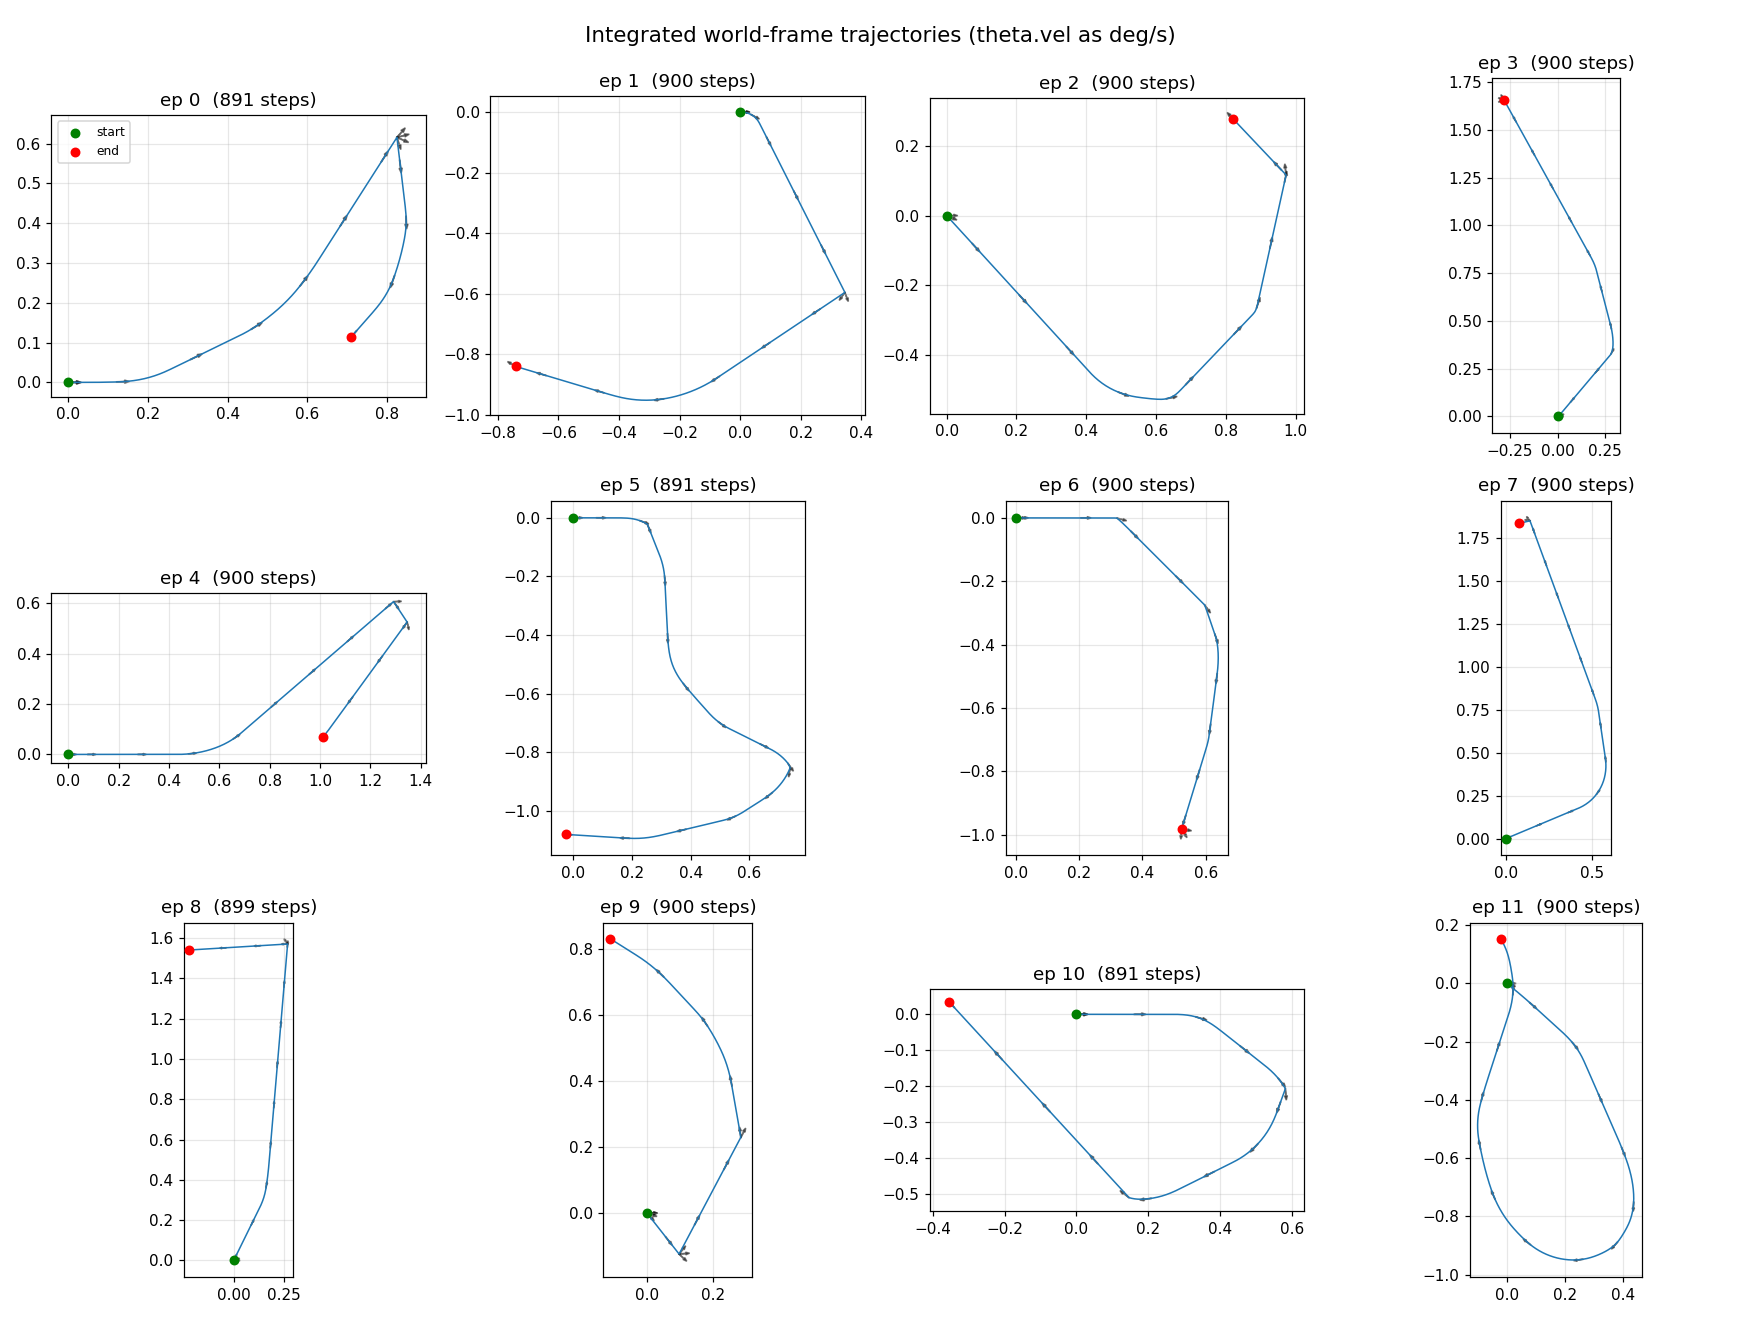
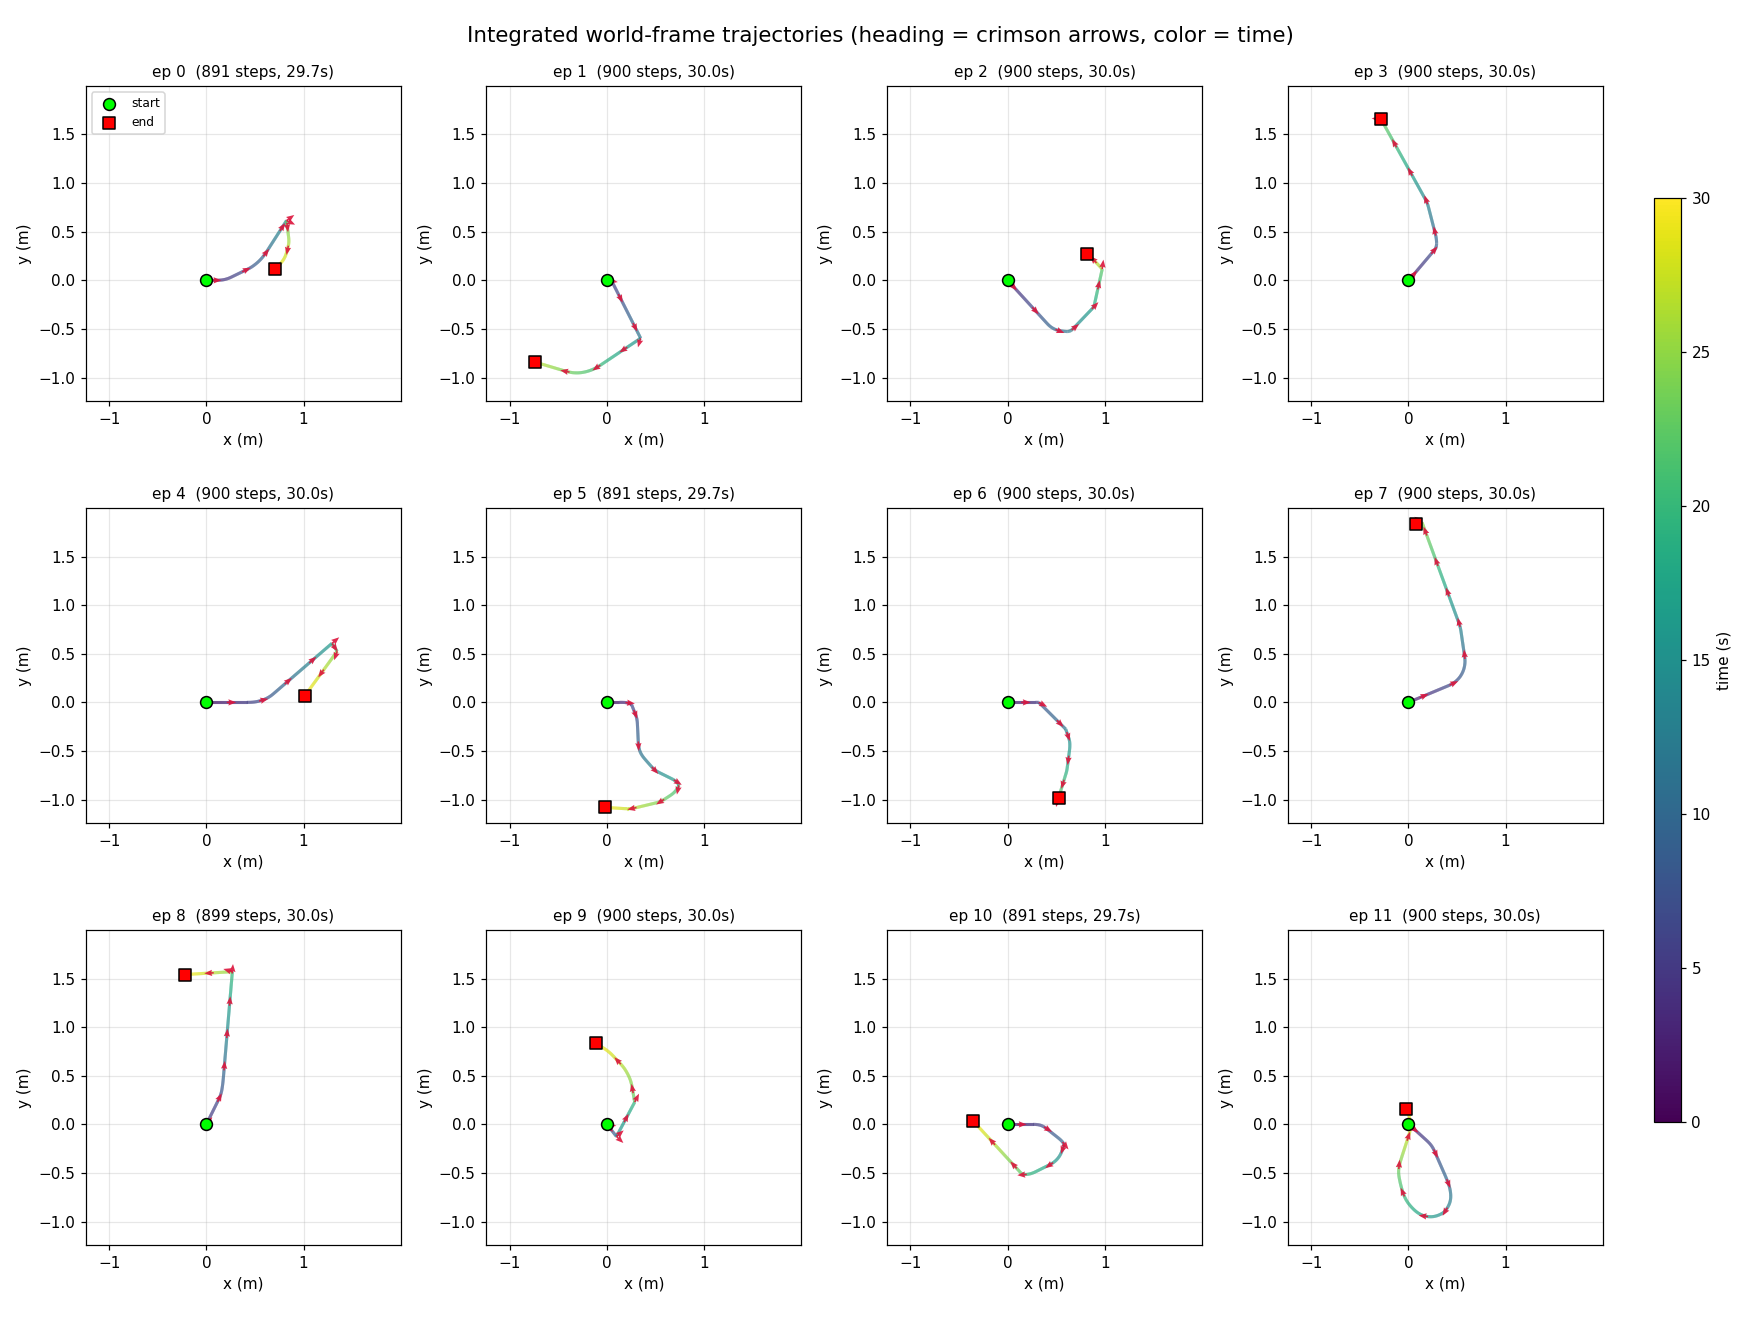
chore(viz): integration-trajectory viz enhancements + regenerated world_trajectories
Heading arrows, shared comparable coordinate frame, viridis time-coloring (pre-existing
local work, committed for a clean tree before pod handoff).

diff --git a/scripts/visualize_integration.py b/scripts/visualize_integration.py
@@ -40,30 +40,65 @@ def load_episodes(parquet: str):
     return eps
 
 
-def fig_world_trajectories(eps, out: Path, n=12):
+def fig_world_trajectories(eps, out: Path, n=12, n_arrows=8):
+    from matplotlib.collections import LineCollection
+
     ids = list(eps)[:n]
+    # Integrate once; gather a shared coordinate frame so every subplot is directly comparable.
+    trajs, tmax = {}, 0.0
+    gmin, gmax = np.inf, -np.inf
+    for ep in ids:
+        vx, omega = eps[ep]
+        p = integrate_trajectory(vx, omega, DT, theta_in_degrees=True)
+        trajs[ep] = p
+        gmin = min(gmin, p[:, :2].min())
+        gmax = max(gmax, p[:, :2].max())
+        tmax = max(tmax, (len(vx)) * DT)
+    pad = 0.05 * (gmax - gmin)
+    lo, hi = gmin - pad, gmax + pad          # identical square limits for all subplots
+    arrow_len = 0.03 * (hi - lo)             # heading-arrow length scaled to the shared frame
+
+    cmap = plt.cm.viridis
+    norm = plt.Normalize(0, tmax)
     cols, rows = 4, int(np.ceil(len(ids) / 4))
     fig, axes = plt.subplots(rows, cols, figsize=(4 * cols, 4 * rows))
     axes = np.atleast_1d(axes).ravel()
+
     for ax, ep in zip(axes, ids):
-        vx, omega = eps[ep]
-        p = integrate_trajectory(vx, omega, DT, theta_in_degrees=True)
+        p = trajs[ep]
         x, y, th = p[:, 0], p[:, 1], p[:, 2]
-        ax.plot(x, y, lw=1.0)
-        ax.scatter([0], [0], c="g", s=30, zorder=5, label="start")
-        ax.scatter([x[-1]], [y[-1]], c="r", s=30, zorder=5, label="end")
-        # heading arrows along the path
-        for k in range(0, len(x) - 1, max(1, len(x) // 15)):
-            ax.arrow(x[k], y[k], 0.02 * np.cos(th[k]), 0.02 * np.sin(th[k]),
-                     head_width=0.008, color="k", alpha=0.5)
-        ax.set_title(f"ep {ep}  ({len(vx)} steps)")
+        t = np.arange(len(x)) * DT
+
+        # path colored by time
+        pts = np.array([x, y]).T.reshape(-1, 1, 2)
+        segs = np.concatenate([pts[:-1], pts[1:]], axis=1)
+        lc = LineCollection(segs, cmap=cmap, norm=norm, linewidth=2.0)
+        lc.set_array(t[:-1])
+        ax.add_collection(lc)
+
+        # bold heading arrows (quiver), a handful evenly spaced along the path
+        ks = np.linspace(0, len(x) - 1, n_arrows + 2).astype(int)[1:-1]
+        ax.quiver(x[ks], y[ks], np.cos(th[ks]), np.sin(th[ks]),
+                  color="crimson", angles="xy", scale_units="xy",
+                  scale=1.0 / arrow_len, width=0.005, headwidth=4, headlength=5,
+                  zorder=6, alpha=0.9)
+
+        ax.scatter([0], [0], c="lime", s=60, ec="k", zorder=7, label="start")
+        ax.scatter([x[-1]], [y[-1]], c="red", s=60, ec="k", marker="s", zorder=7, label="end")
+        ax.set_title(f"ep {ep}  ({len(x)-1} steps, {t[-1]:.1f}s)", fontsize=10)
+        ax.set_xlim(lo, hi); ax.set_ylim(lo, hi)     # standardized grid
         ax.set_aspect("equal", "box")
         ax.grid(alpha=0.3)
+        ax.set_xlabel("x (m)"); ax.set_ylabel("y (m)")
+
     for ax in axes[len(ids):]:
         ax.axis("off")
-    axes[0].legend(fontsize=8)
-    fig.suptitle("Integrated world-frame trajectories (theta.vel as deg/s)", fontsize=14)
-    fig.tight_layout()
+    axes[0].legend(fontsize=8, loc="upper left")
+    fig.suptitle("Integrated world-frame trajectories (heading = crimson arrows, color = time)", fontsize=14)
+    fig.tight_layout(rect=[0, 0, 0.92, 1])
+    # shared time colorbar
+    cbar_ax = fig.add_axes([0.94, 0.15, 0.015, 0.7])
+    fig.colorbar(plt.cm.ScalarMappable(norm=norm, cmap=cmap), cax=cbar_ax, label="time (s)")
     fig.savefig(out / "world_trajectories.png", dpi=110)
     plt.close(fig)
 